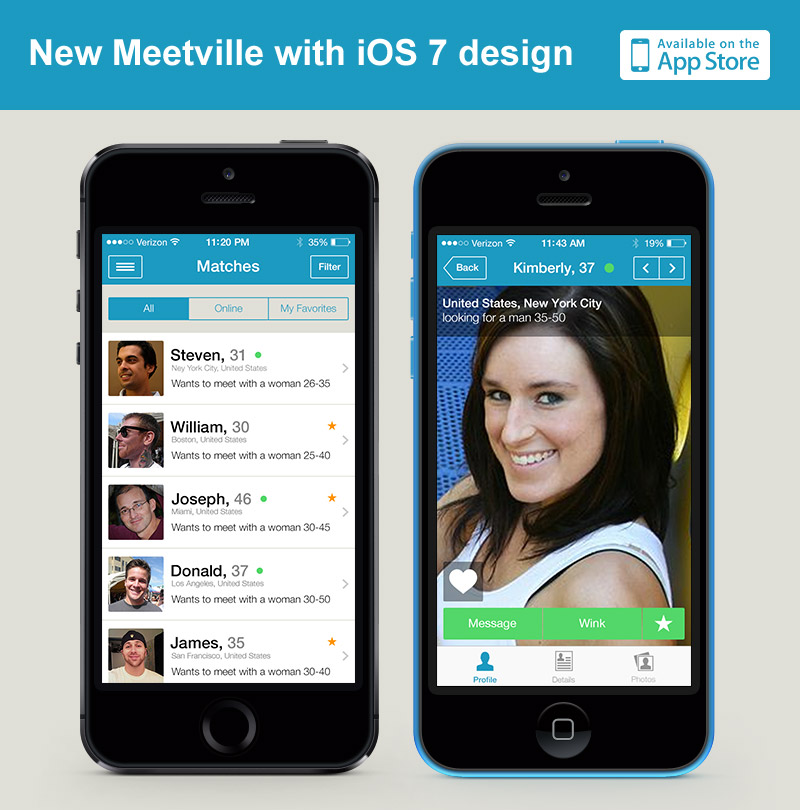
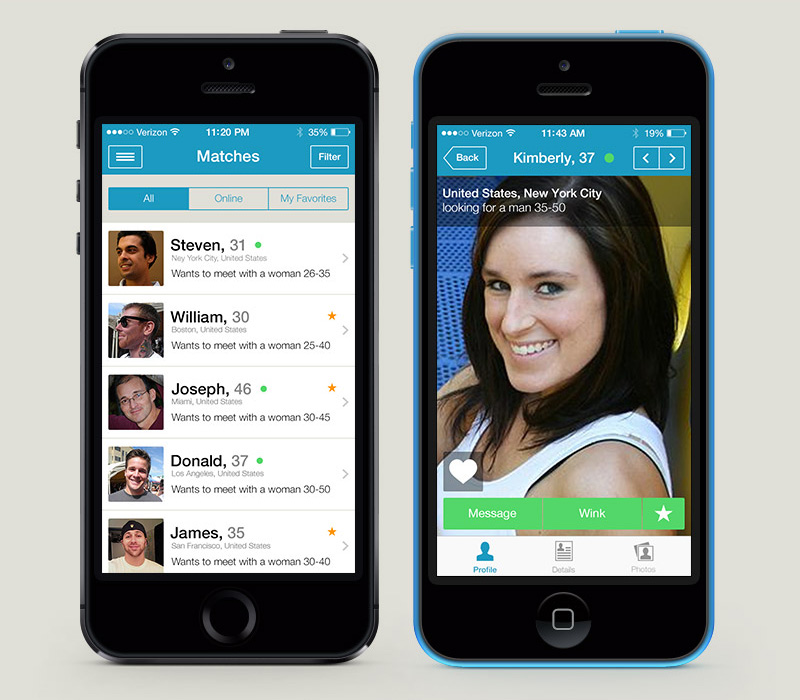
1

diff --git a/MAILER/Mail-New/ipad/iphone/iphone_3.0.html b/MAILER/Mail-New/ipad/iphone/iphone_3.0.html
@@ -6,12 +6,18 @@
 </head>
 <body>
 <!-- Letter Wrapper -->
+    <div style="text-align: center; background-color: #1c9ac2;">
+        <a href="https://itunes.apple.com/app/id508760385">
+            <img src="iphone_3.0_head.jpg" alt="Meetville iPhone App"/>
+        </a>
+    </div>
+
     <div style="font: 18px Arial; color: #212121; background-color: #e0dfd7; text-align: center;">
         <a href="https://itunes.apple.com/app/id508760385">
             <img src="iphone_3.0.jpg" alt="Meetville iPhone App" style="border: none";/>
         </a>
-
-        <div  style="background: #fff; padding-bottom: 26px; padding-top: 26px; width: 740px; margin: -5px auto 10px; position: relative; border-radius: 2px;">
+    <center>
+        <div  style="background: #fff; padding-bottom: 26px; padding-top: 26px; width: 740px; margin-top: -5px; margin-bottom: 10px;  border-radius: 2px;">
             <p style="padding: 0 30px 21px; text-align: left; margin: 0;">
                 Dear friend!
             </p>
@@ -27,7 +33,7 @@
 
             <a href="https://itunes.apple.com/app/id508760385"><img src="iphone_store.jpg" alt="Meetville App available in App Store" style="margin-top: 8px; border: none;"/></a>
         </div>
-
+    </center>
         <center style="font-family: Arial, serif;">
             <table width="740" style="margin: 0 auto; " cellpadding="0" cellspacing="0">
                 <!-- FOOTER  -->
